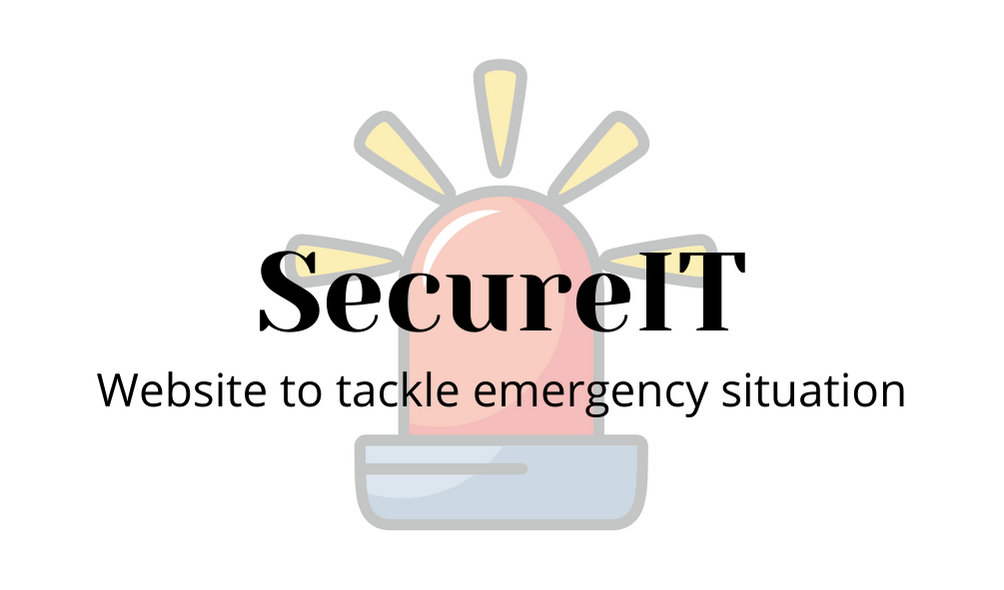
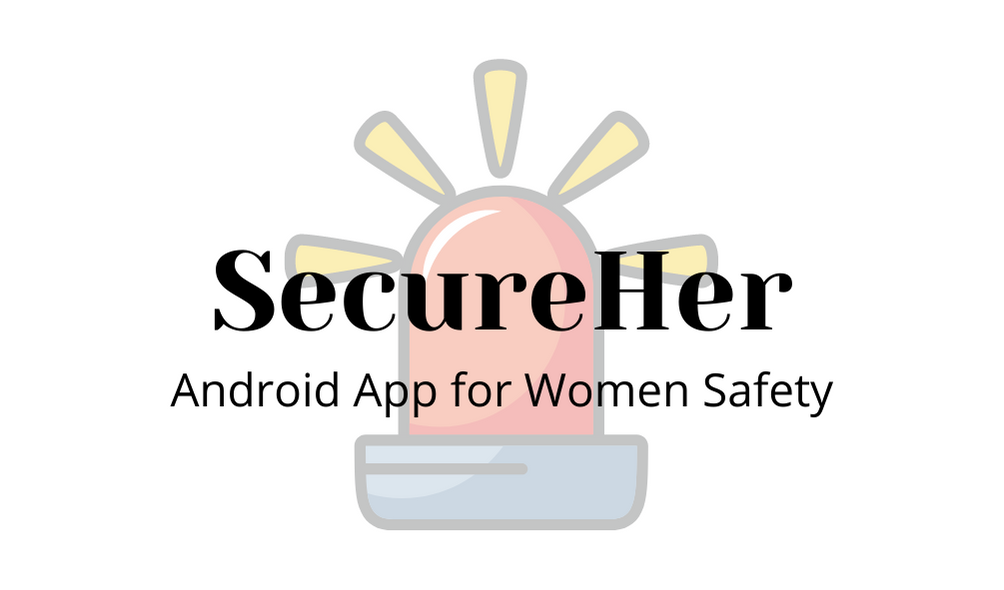
Init

Changed region(s): [[0.2161, 0.4271, 0.8028, 0.5797], [0.0926, 0.6102, 0.9263, 0.7322]]

diff --git a/index.html b/index.html
@@ -41,7 +41,7 @@
                 <div class="home__data">
                     <h1 class="home__title">Hi,<br>I'am <span class="home__title-color">Deep</span><br>
                         <ul>
-                            <li><span>Web Developer</span></li>
+                            <li><span>Developer</span></li>
                             <li><span>&</span></li>
                             <li><span>Analyst</span></li>
                         </ul>
@@ -72,11 +72,11 @@
                     
                     <div>
                         <h2 class="about__subtitle">I'am Deep Awasthi</h2>
-                        <p class="about__text">I am a code loving boy who develops <b>high quality websites and ml models</b>. 
-                        Currently I am pursuing my BTech in Mechanical Engineering from Dr B R Ambedkar National Institute Of Technology. 
-                        I have some experience in programming in Python, Java and C++ as well as well qualified in 
+                        <p class="about__text">I am a code loving boy who develops <b>high quality websites and machine learning models</b>. 
+                        Currently I am pursuing my B.Tech in Mechanical Engineering from Dr B R Ambedkar National Institute Of Technology. 
+                        I have some experience in programming in Python, Java and C++ as well as qualified in 
                         <b>Data Analytics</b> and <b>Data Science</b>. Apart from being a react developer and analyst, I am also interested 
-                        in solving data structures & algorithms problems.</p>           
+                        in solving data structures & algorithms problems and DevOps</p>           
                     </div>                                   
                 </div>
             </section>
@@ -103,7 +103,7 @@
                         <div class="skills__data">
                             <div class="skills__names">
                                 <i class='bx bxl-c-plus-plus skills__icon'></i>
-                                <span class="skills__name">C++</span>
+                                <span class="skills__name">C++, Java</span>
                             </div>
                             <div class="skills__bar skills__blog">
                                 
@@ -150,8 +150,8 @@
                         </div>
                         <div class="skills__data">
                             <div class="skills__names">
-                                <i class='bx bxl-nodejs skills__icon'></i>
-                                <span class="skills__name">Node Js</span>
+                                <i class='bx bxl-docker skills__icon'></i>
+                                <span class="skills__name">DevOps (Docker & Kubernetes)</span>
                             </div>
                             <div class="skills__bar skills__dj">
                                 
@@ -185,10 +185,10 @@
                         <a href="https://mad-skull.github.io/WebIDE/"><img src="assets/img/4.png" alt=""></a>
                     </div>
                     <div class="work__img">
-                        <a href="https://mad-skull.github.io/SecureIT/"><img src="assets/img/5.png" alt=""></a>
+                        <a href="https://mad-skull.github.io/SecureHer/"><img src="assets/img/5.png" alt=""></a>
                     </div>
                     <div class="work__img">
-                        <a href="https://mad-skull.github.io/LetsTalk/"><img src="assets/img/6.png" alt=""></a>
+                        <a href="https://github.com/mad-skull/YourBuddy"><img src="assets/img/6.png" alt=""></a>
                     </div>
                 </div>
             </section>
